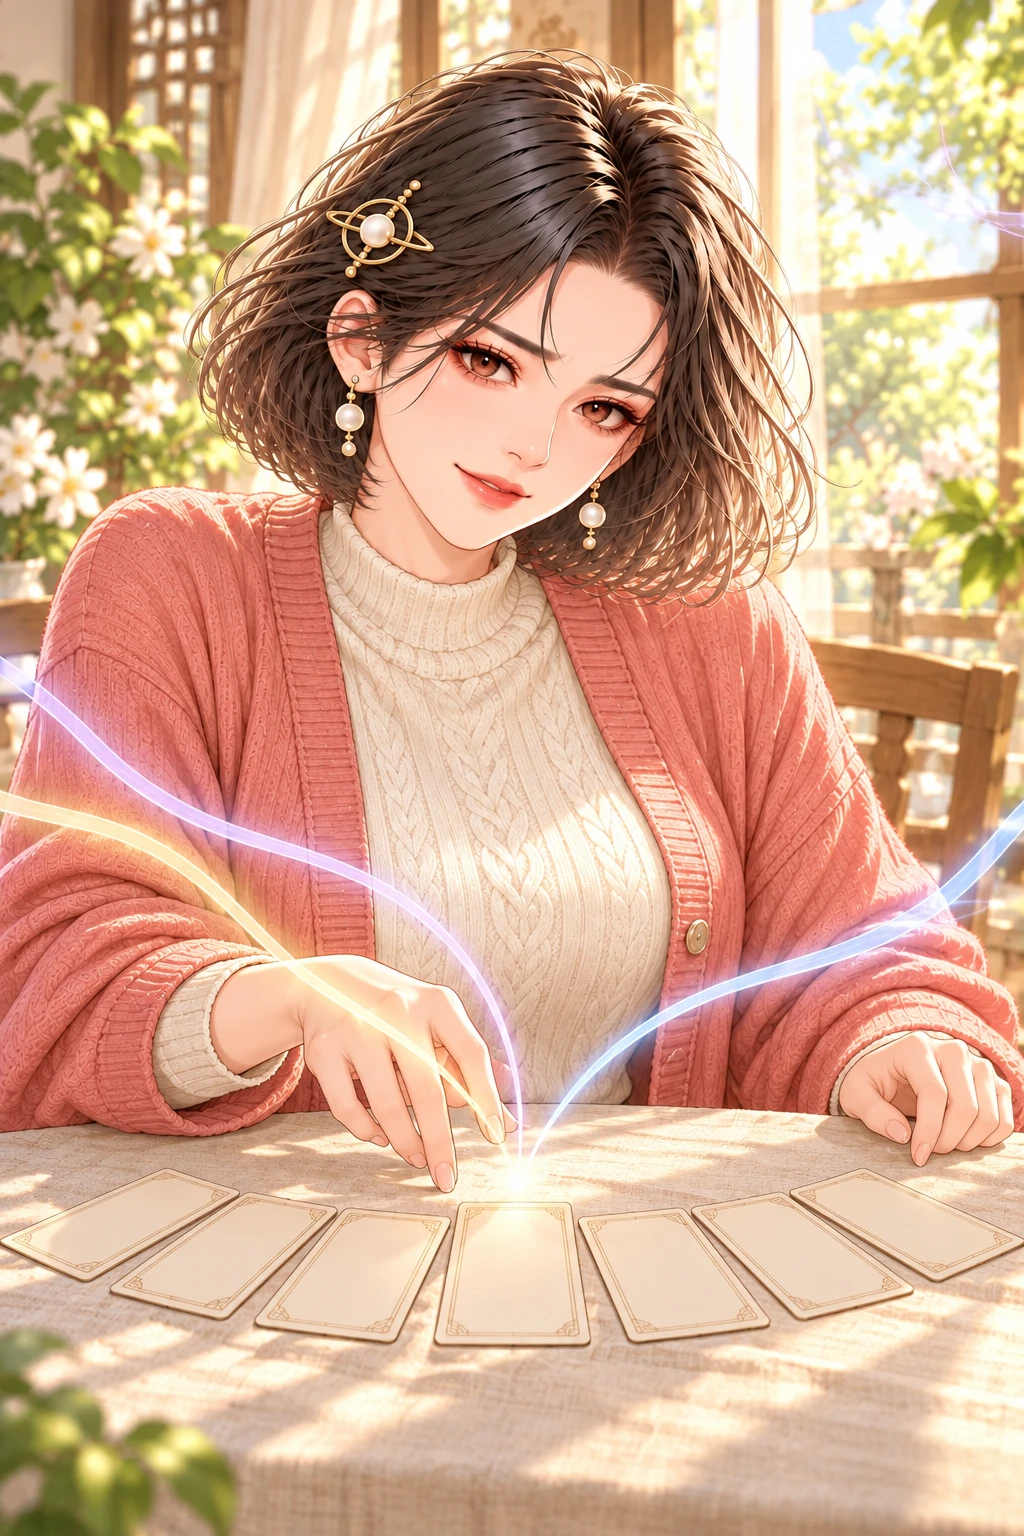
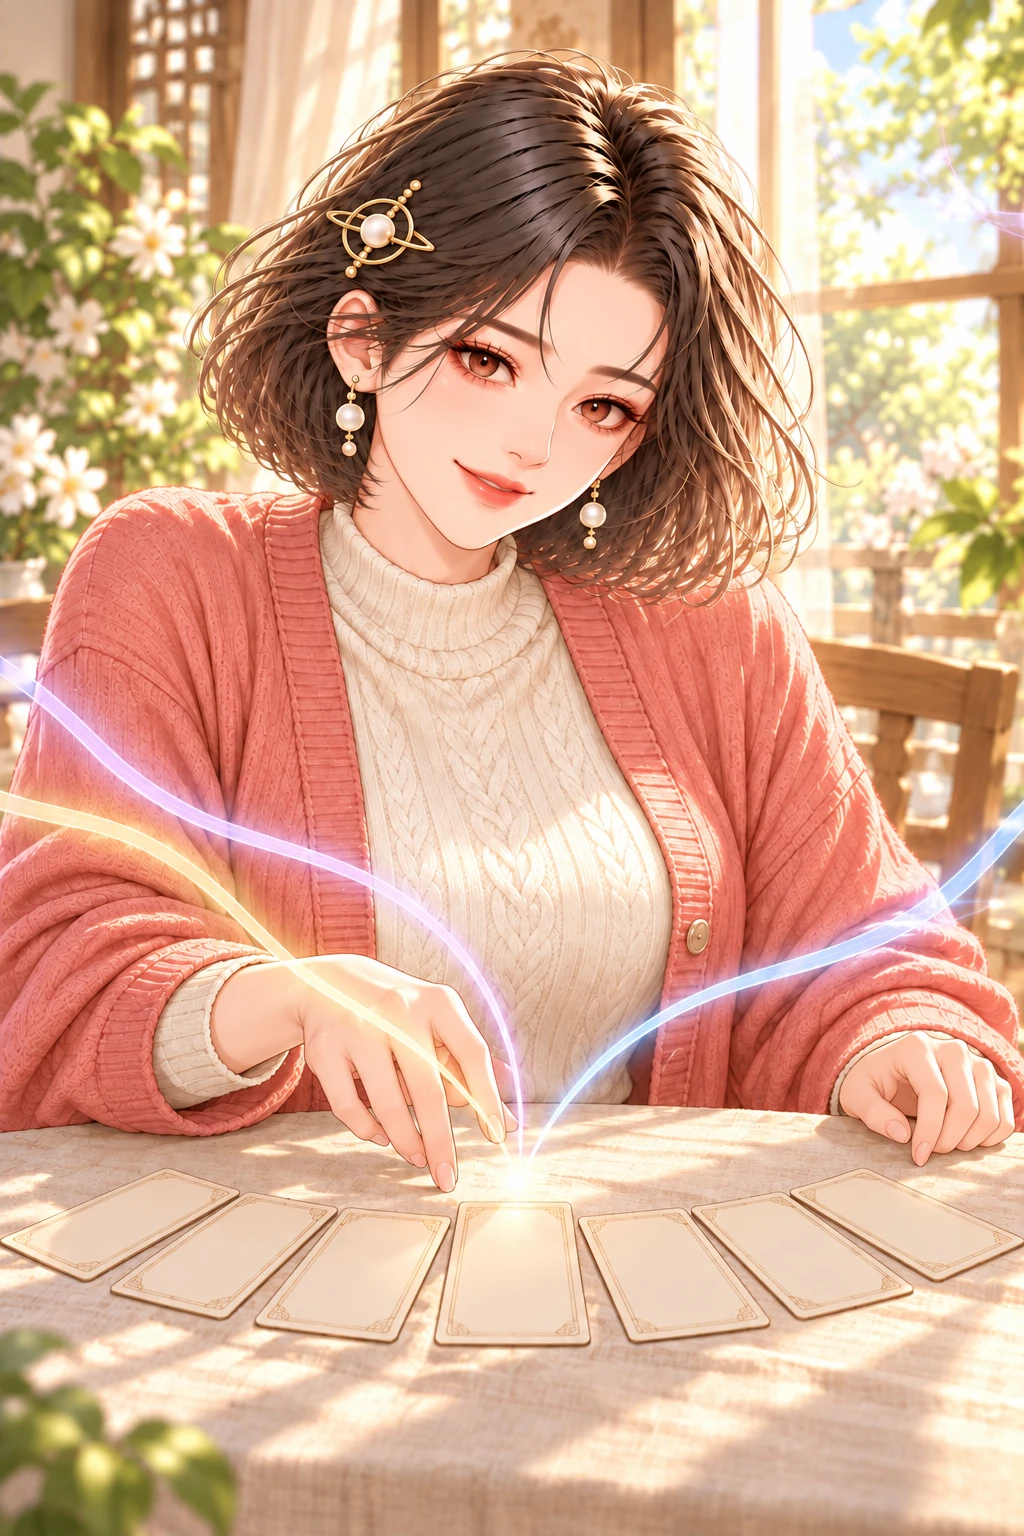
fix(art): soften female three-perspective cover expression
정한 것: 찡그려 보이던 여성 표지의 눈썹과 눈매를 편안하게 풀고 미소를 부드럽게 바꾼다. 같은 자산 경로와 견본에 2판을 반영한다.

diff --git a/copy-requests/ref/COPY-0024-preview.html b/copy-requests/ref/COPY-0024-preview.html
@@ -3,7 +3,7 @@
 <style>
 *{box-sizing:border-box}body{margin:0;background:#faf7f0;color:#30261f;font:16px/1.75 system-ui,sans-serif}main{max-width:1040px;margin:auto;padding:32px 20px 80px}header{margin-bottom:28px}h1{font:500 clamp(26px,4vw,38px)/1.5 Georgia,serif}h2{font-size:18px}p{margin:8px 0}.muted,.label{color:#817362;font-size:13px}.covers{display:grid;grid-template-columns:1fr 1fr;gap:18px;max-width:680px;margin:28px auto}.covers img{display:block;width:100%;border-radius:16px}.covers figcaption{font-size:13px;color:#817362}.covers figure{margin:0}nav{display:flex;flex-wrap:wrap;gap:8px;margin:26px 0}button{font:inherit;padding:9px 14px;border:1px solid #d9c9ad;border-radius:10px;background:#fff;color:inherit;cursor:pointer}button[aria-pressed=true]{background:#825d2a;color:#fff}.sample{padding:clamp(20px,4vw,40px);background:#fffdf8;border:1px solid #ddcfb8;border-radius:16px;max-width:760px;margin:auto}.point{font:500 clamp(24px,4vw,32px)/1.65 Georgia,serif;margin:22px 0}.card{display:inline-block;padding:12px 18px;margin:20px 0;border:1px solid #cbb899;border-left:4px solid #ae7c32}.card small{display:block}.notes{list-style:none;padding:0}.notes li{padding:12px 0;border-bottom:1px solid #eee5d7}.notes b{display:block}.backs{display:flex;gap:8px;margin:24px 0}.back{flex:1;aspect-ratio:2/3;border:1px solid #cab68f;background:repeating-linear-gradient(45deg,#f1e9da,#f1e9da 3px,#faf6ef 3px,#faf6ef 8px);border-radius:7px}details{margin-top:20px;padding-top:16px;border-top:1px solid #ded3c2}summary{cursor:pointer;color:#8d632c}table{border-collapse:collapse;width:100%;font-size:13px}td,th{text-align:left;padding:12px;border-bottom:1px solid #e6ddcd;vertical-align:top}code{overflow-wrap:anywhere}.tablewrap{overflow:auto}.record{padding:16px;background:#f6f0e4;margin-top:18px}.tags span{display:inline-block;border:1px solid #d4c5aa;padding:4px 8px;margin:5px 5px 0 0;border-radius:8px}.support{margin:24px 0}.support article{padding:16px;border:1px solid #ded3c2;border-radius:10px;margin-top:12px}
 </style><main><header><div class="label">COPY-0024 · IMG-0065 / 0066</div><h1>세 관점 문장·표지 견본</h1><p class="muted">문장 검토용입니다. 계산값은 주문서에 실린 가상 명식 예시를 사용합니다. 실제 앱의 배치와 다르며 카드를 다시 계산하거나 기록을 저장하지 않습니다.</p></header>
-<section class="covers"><figure><img src="../../app/art/three-cover-f.webp" width="1024" height="1536" alt="밝은 창가에서 카드 한 장을 고르는 여자 표지"><figcaption>IMG-0065 · 여자</figcaption></figure><figure><img src="../../app/art/three-cover-m.webp" width="1024" height="1536" alt="밝은 창가에서 카드 한 장을 고르는 남자 표지"><figcaption>IMG-0066 · 남자</figcaption></figure></section>
+<section class="covers"><figure><img src="../../app/art/three-cover-f.webp?v=2" width="1024" height="1536" alt="밝은 창가에서 카드 한 장을 고르는 여자 표지"><figcaption>IMG-0065 · 여자</figcaption></figure><figure><img src="../../app/art/three-cover-m.webp" width="1024" height="1536" alt="밝은 창가에서 카드 한 장을 고르는 남자 표지"><figcaption>IMG-0066 · 남자</figcaption></figure></section>
 <nav aria-label="문장 상태 선택" id="tabs"></nav><section id="sample" class="sample"></section><section id="support" class="support"></section><details><summary>전체 문장과 작성 이유</summary><div class="tablewrap"><table><thead><tr><th>칸</th><th>문장</th><th>이유</th></tr></thead><tbody id="allcopy"></tbody></table></div></details>
 </main><script src="../../app/three-pieces.js"></script><script>
 const P=window.ChaeksaThreePieces;

diff --git a/image-requests/IMG-0065-three-eyes-cover-f.md b/image-requests/IMG-0065-three-eyes-cover-f.md
@@ -47,3 +47,16 @@ Wardrobe: modest soft knit top in cream or light coral with a light cardigan, sm
 - 배포용 WebP: `app/art/three-cover-f.webp` — 1024×1536, 품질 90.
 - 작은 판: `app/art/three-cover-f-s.webp` — 360×540, 품질 88.
 - Sharp로 포맷 변환과 작은 판 축소만 적용했습니다. 홈 연결·캐시 갱신은 메인 담당입니다.
+
+## 표정 수정 — 2026-10-30 · 2판
+
+- 사용자 피드백: 여성 얼굴이 찡그려 보임.
+- 내장 image_gen 편집으로 안쪽으로 모인 눈썹과 긴장한 눈매를 풀고 편안한 미소로 수정했습니다.
+- 기존 PNG를 편집 대상으로 사용했습니다. 인물·의상·손·카드 일곱 장·빛줄기·구도는 보존하도록 지정했습니다.
+- 같은 납품 경로의 PNG·큰 WebP·360px WebP를 교체하고 견본의 여성 표지에 `?v=2`를 붙였습니다.
+
+### 편집 프롬프트 전문
+
+```text
+Use case: identity-preserve. Edit target: the attached existing Chaeksa female tarot cover. Make one localized facial-expression correction. She currently looks tense and slightly frowning because the inner eyebrows angle down toward the bridge of the nose. Change her to a visibly relaxed, friendly, quietly delighted expression, as if pleasantly choosing a card. Smooth and relax the brow area; make both eyebrows softly level with gentle natural curves, with NO inward V angle, NO knit brow, NO worried inner-brow lift. Open her eyes comfortably and soften the eyelids and gaze toward the viewer, without squinting. Give her a small warm symmetric smile with relaxed lips, not a smirk. Preserve her recognizable face, adult age, iris color, short dark hairstyle, accessories, face orientation, skin tone, cream knit and coral cardigan. Preserve the exact original scene, composition, crop, body shape, hand positions, seven face-down cards, three colored light ribbons, window, sunlight, and background. Only modify the eyebrows, tiny surrounding facial muscles, relaxed eyelids and smile as needed. Retain crisp detailed premium Korean romance-webtoon illustration. 1024x1536 portrait, opaque. No extra objects, no text, no watermark. Do not redraw the rest of the artwork.
+```
